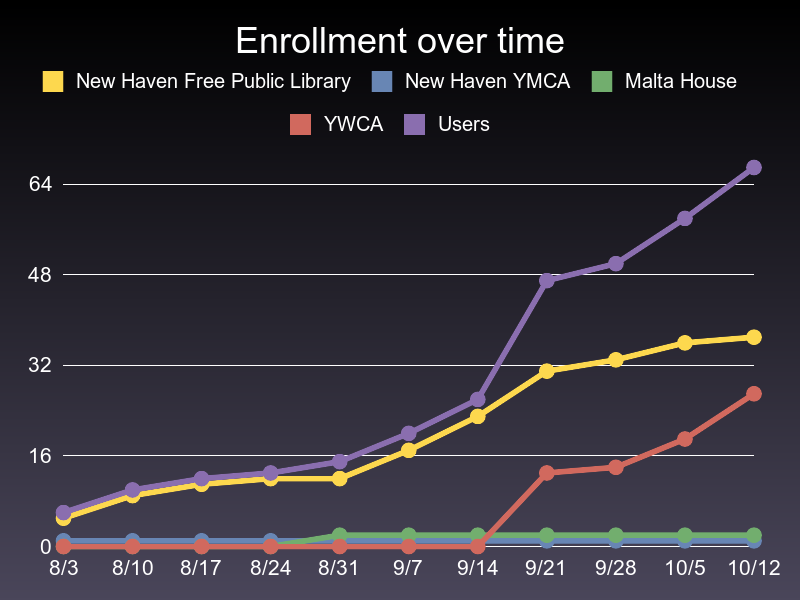
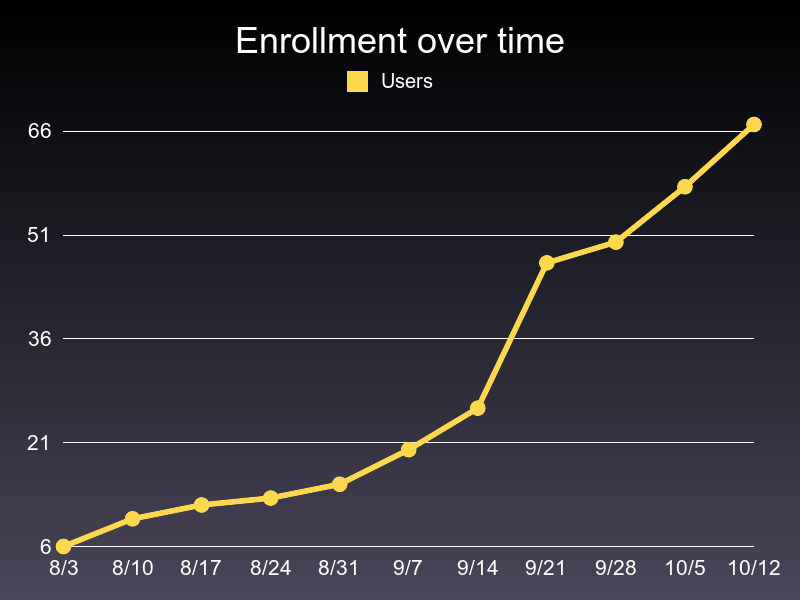
for some reason a query isn't working... check out instance variable inheritance in ruby

diff --git a/stats.rb b/stats.rb
@@ -3,44 +3,48 @@ require 'gruff'
 require 'fileutils'
 
 
+class Stats
+  attr_accessor :name, :users, :start_date, :dir, :time_interval
+
+  def initialize(name, user_query, start_date, dir="", time_interval=1.day)
+    @name = name
+    @users = user_query
+    @start_date = start_date
+    @dir = dir
+    @time_interval = time_interval
+  end
+
+  def draw_graph(graph, url)
 
 
-class SchoolStats
-  attr_accessor :school, :users
+  end
 
-  def initialize(name)
-    @school = School.where(name: name).first
-    @users = User.where(school_id: @school.id)
-  end 
-
-
-  def growth(opt="all")
-    start = school.created_at
+  def growth
     today = Time.now + 1.week
-
     g = Gruff::Line.new
-    g.title = "Enrollment over time: #{school.name}"
+    g.title = "Enrollment over time: #{name}"
     g.labels = {}
     enrollment_growth = []
 
-
     percent = Gruff::Line.new
-    percent.title = 'Growth over time (%)'
+    percent.title = "\% growth over time: #{name}"
     percent_growth = []
 
     r = Gruff::Line.new
-    r.title = "Growth rate (users/week)"
+    r.title = "Growth rate (users/week): #{name}"
     growth_rate = []
 
     date_index = 0
 
     # the first day any user enrolled in this school
-    date = users.where{enrolled_on >= start}.min(:enrolled_on)
-
-    time_interval = 1.day
+    puts "start_date = #{@start_date}"
+    puts "users.count = #{users.count}"
+    puts "query = #{@users.where{enrolled_on >= @start_date}.count}"
+    date = users.where{enrolled_on >= @start_date}.min(:enrolled_on)
+    puts "date = #{date}"
 
     # seed with the users who enrolled in the first time_interval
-    prev_week = users.where{(enrolled_on >= date) && (enrolled_on < (date + time_interval))}.count
+    prev_week = users.where{(enrolled_on >= date) && (enrolled_on < (date + @time_interval))}.count
 
     # begin after those initial users have already gone
     date += time_interval
@@ -64,42 +68,133 @@ class SchoolStats
     end
 
     percent.labels = r.labels = g.labels 
-    percent.data "#{school.name} growth", percent_growth
+    percent.data "#{name} percentage growth", percent_growth
 
-    r.data "#{school.name} growth rate", growth_rate
+    r.data "#{name} growth rate", growth_rate
 
-    g.data "#{school.name} users", enrollment_growth
+    g.data "#{name} users", enrollment_growth
 
-
-    dirname = "graphs/schools/#{school.name}/"
+    dirname = "graphs/#{dir}"
     unless File.directory?(dirname)
       FileUtils.mkdir_p(dirname)
     end
 
-    base_url = "graphs/schools/#{school.name}/"
+    base_url = "graphs/#{dir}/"
 
-    case opt
-    when 'percent'
-      percent.write("#{base_url}growth.png")
-
-    when 'absolute', 'abs'
-      g.write("#{base_url}enrollment.png")
-
-    when 'rate'
-      r.write("#{base_url}growth_rate.png")
-    else
-      percent.write("#{base_url}growth.png")
-      g.write("#{base_url}enrollment.png")
-      r.write("#{base_url}growth_rate.png")
-
-    end
-    
+    percent.write("#{base_url}growth.png")
+    g.write("#{base_url}enrollment.png")
+    r.write("#{base_url}growth_rate.png")
 
   end
+
+end
+
+class SchoolStats < Stats
+  # attr_accessor :name, :users, :start_date, :dir, :time_interval
+  def initialize(school_name)
+    school = School.where(name: school_name).first
+    users = User.where(school_id: school.id)
+    start_date = school.created_at
+    # maybe do something to calculate a better time interval?
+    super(school_name, users, start_date, dir="schools2/#{school_name}", time_interval=1.day)
+  end
+
 end
 
 ywca = SchoolStats.new("New Haven Free Public Library")
 ywca.growth
+
+
+# class SchoolStats
+#   attr_accessor :school, :users
+
+#   def initialize(name)
+#     @school = School.where(name: name).first
+#     @users = User.where(school_id: @school.id)
+#   end 
+
+#   def growth(opt="all")
+#     start = school.created_at
+#     today = Time.now + 1.week
+
+#     g = Gruff::Line.new
+#     g.title = "Enrollment over time: #{school.name}"
+#     g.labels = {}
+#     enrollment_growth = []
+
+#     percent = Gruff::Line.new
+#     percent.title = 'Growth over time (%)'
+#     percent_growth = []
+
+#     r = Gruff::Line.new
+#     r.title = "Growth rate (users/week)"
+#     growth_rate = []
+
+#     date_index = 0
+
+#     # the first day any user enrolled in this school
+#     date = users.where{enrolled_on >= start}.min(:enrolled_on)
+
+#     time_interval = 1.day
+
+#     # seed with the users who enrolled in the first time_interval
+#     prev_week = users.where{(enrolled_on >= date) && (enrolled_on < (date + time_interval))}.count
+
+#     # begin after those initial users have already gone
+#     date += time_interval
+
+#     puts "prev_week = #{prev_week}"
+#     # prev_week = 1
+#     while date < today
+#       formatted_date = "#{date.month}/#{date.day}"
+#       g.labels[date_index]  = formatted_date
+
+#        # enrollment for everyone
+#       enrollment = users.where{enrolled_on <= date}.count
+#       enrollment_growth << enrollment
+#       percent_growth << ((enrollment - prev_week) / prev_week.to_f ) * 100
+
+#       growth_rate << (enrollment - prev_week)
+
+#       date_index += 1
+#       date += 1.week
+#       prev_week = enrollment
+#     end
+
+#     percent.labels = r.labels = g.labels 
+#     percent.data "#{school.name} growth", percent_growth
+
+#     r.data "#{school.name} growth rate", growth_rate
+
+#     g.data "#{school.name} users", enrollment_growth
+
+#     dirname = "graphs/schools/#{school.name}/"
+#     unless File.directory?(dirname)
+#       FileUtils.mkdir_p(dirname)
+#     end
+
+#     base_url = "graphs/schools/#{school.name}/"
+
+#     case opt
+#     when 'percent'
+#       percent.write("#{base_url}growth.png")
+
+#     when 'absolute', 'abs'
+#       g.write("#{base_url}enrollment.png")
+
+#     when 'rate'
+#       r.write("#{base_url}growth_rate.png")
+#     else
+#       percent.write("#{base_url}growth.png")
+#       g.write("#{base_url}enrollment.png")
+#       r.write("#{base_url}growth_rate.png")
+
+#     end
+    
+#   end
+# end
+
+
 
 
 class AllUsers
@@ -131,11 +226,14 @@ class AllUsers
     g.title = 'Enrollment over time'
     g.labels = {}
     enrollment_growth = []
-    schools = {}
 
     percent = Gruff::Line.new
     percent.title = 'Growth over time (%)'
     percent_growth = []
+
+    r = Gruff::Line.new
+    r.title = "Growth rate (users/week)"
+    growth_rate = []
 
     date_index = 0
 
@@ -154,45 +252,25 @@ class AllUsers
       # enrollment for everyone
       enrollment = users.where{enrolled_on <= date}.count
       enrollment_growth << enrollment
-      percent_growth << (enrollment - prev_week) / prev_week.to_f
+      percent_growth << ((enrollment - prev_week) / prev_week.to_f) * 100
 
-      School.each do |s|
-        school_enrollment = users.where{enrolled_on < date}.where(school_id: s.id).count
-        schools[s.name] ||= {enrollment: [], prev_week: 0, percent_growth: []}
-        schools[s.name][:enrollment] << school_enrollment
-        school_prev_week = schools[s.name][:prev_week]
-        if school_prev_week == 0 and school_enrollment == 0
-          schools[s.name][:percent_growth] << 0.0
-        elsif school_prev_week == 0 and school_enrollment > 0
-          schools[s.name][:percent_growth] << 0.2
-          # schools[s.name][]
-        else
-          schools[s.name][:percent_growth] << (school_enrollment - school_prev_week) / school_prev_week.to_f
-        end
+      growth_rate << (enrollment - prev_week)
 
-        schools[s.name][:prev_week] = school_enrollment
-      end
       date_index += 1
       date += 1.week
       prev_week = enrollment
     end
 
-    schools.each do |name, school_users|
-      puts "#{school_users}"
-      g.data name.to_s, school_users[:enrollment]
-      # school_users[:percent_growth].map! {|x| x.nan? ? 0.0 : x*100 }
-      # percent.data name.to_s, school_users[:percent_growth]
-    end
+    percent.labels = r.labels = g.labels 
 
     g.data :Users, enrollment_growth
-    g.write('graphs/enrollment.png')
-
-    percent_growth.map! {|x| x.nan? ? 0.0 : x*100 }
-
-    percent.labels = g.labels
     percent.data :Users, percent_growth
+    r.data "User Growth Rate", growth_rate
 
+    g.write('graphs/enrollment.png')
     percent.write('graphs/growth.png')
+    r.write("graphs/growth_rate.png")
+      
 
     # take weekly intervals... find out the number of users that enrolled_at before that week's end
   end
@@ -290,8 +368,8 @@ class AllUsers
 
 end
 
-user_base = AllUsers.new
-user_base.growth
+# user_base = AllUsers.new
+# user_base.growth
 
 
 
